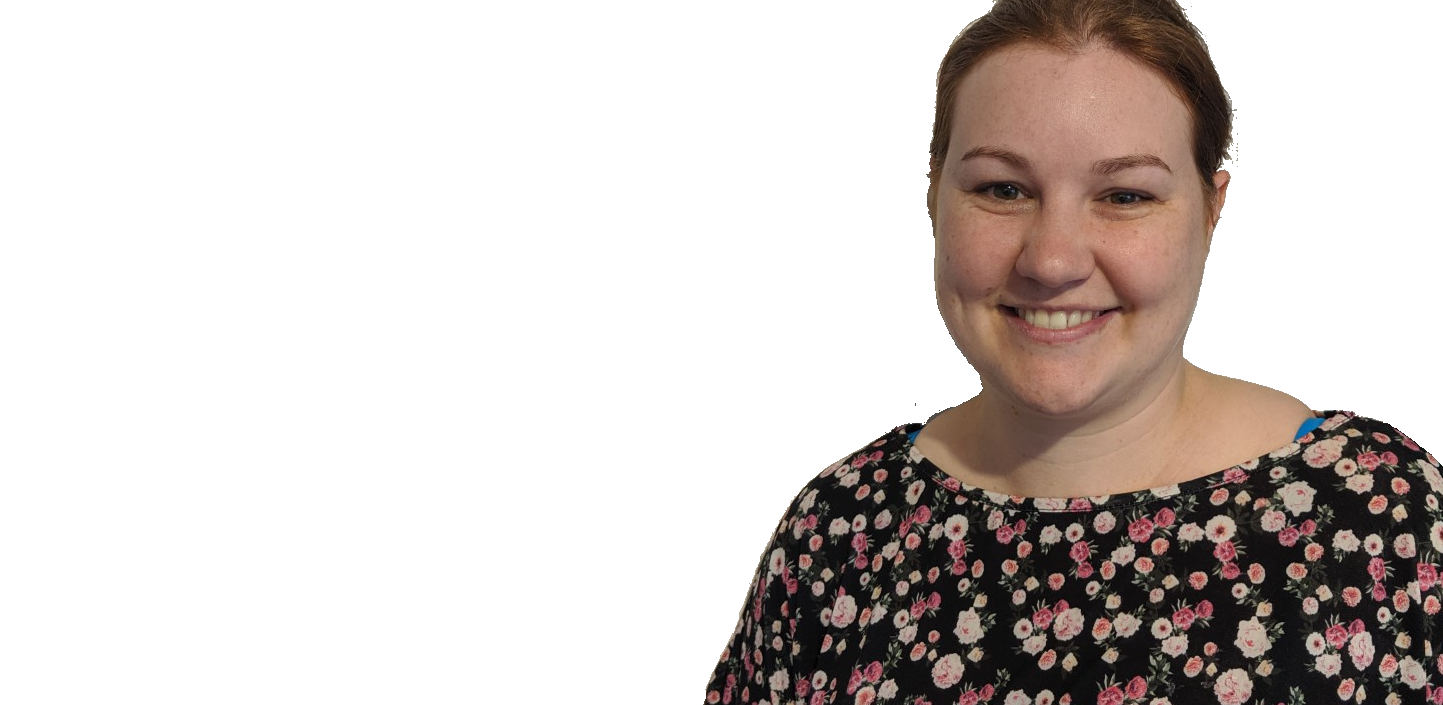
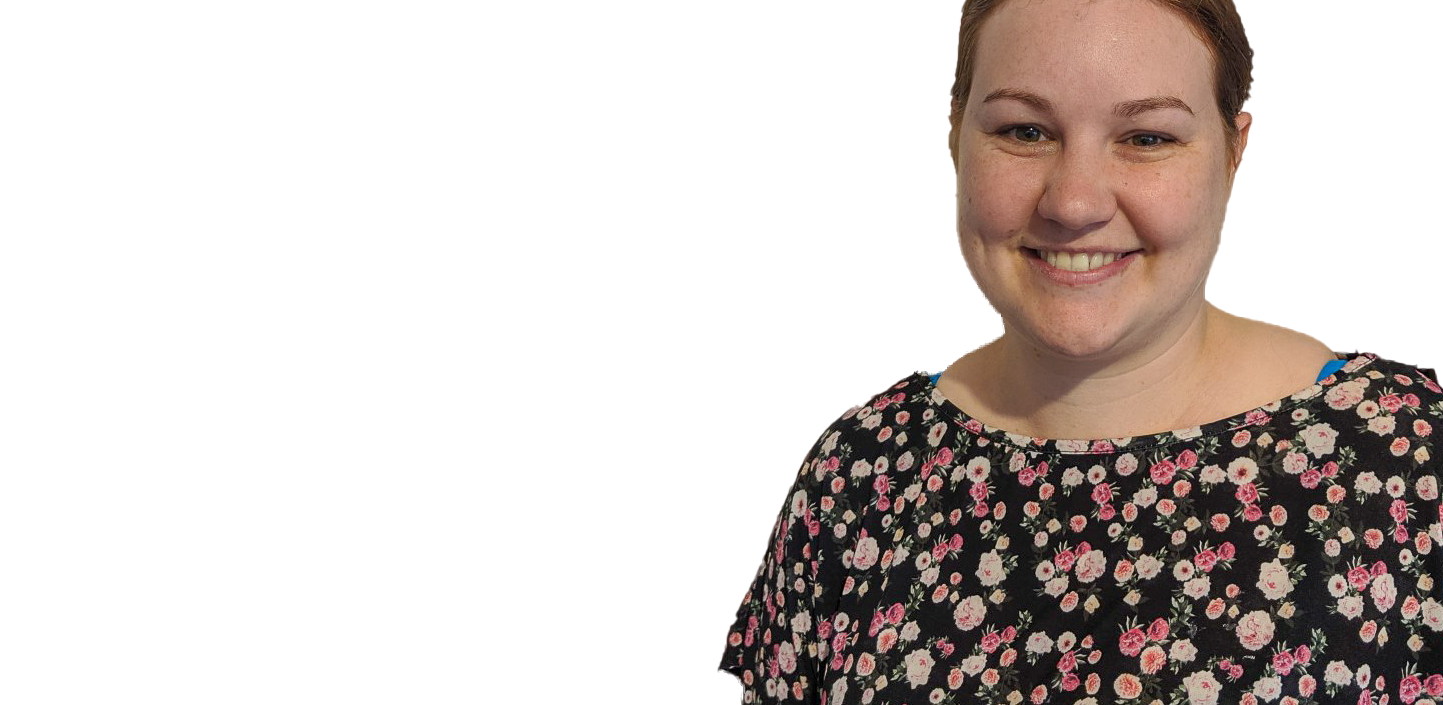
add chris portrait picture

Changed region(s): [[0.4678, 0.0, 1.0, 1.0]]

diff --git a/index.html b/index.html
@@ -651,7 +651,7 @@
 							<div class="flexslider team-slider" data-nav="false" data-dots="true">
 								<ul class="slides">
 									<li class="ls">
-										<img src="images/team/team_slide_01.jpg" alt="">
+										<img src="images/team/chris_2.png" alt="">
 									</li>
 									<li class="ls">
 										<img src="images/team/team_slide_02.jpg" alt="">
